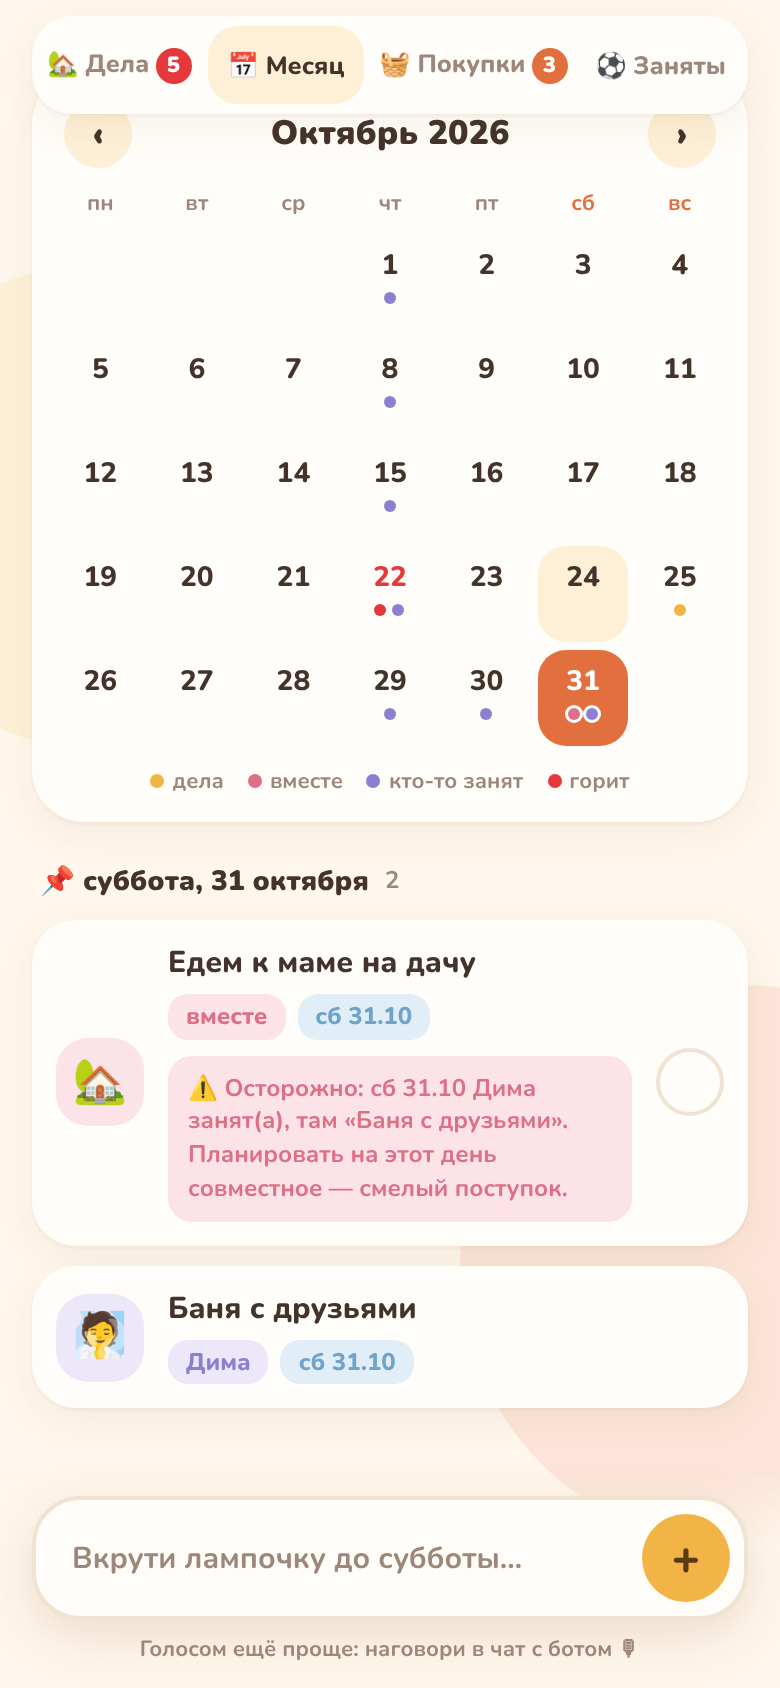
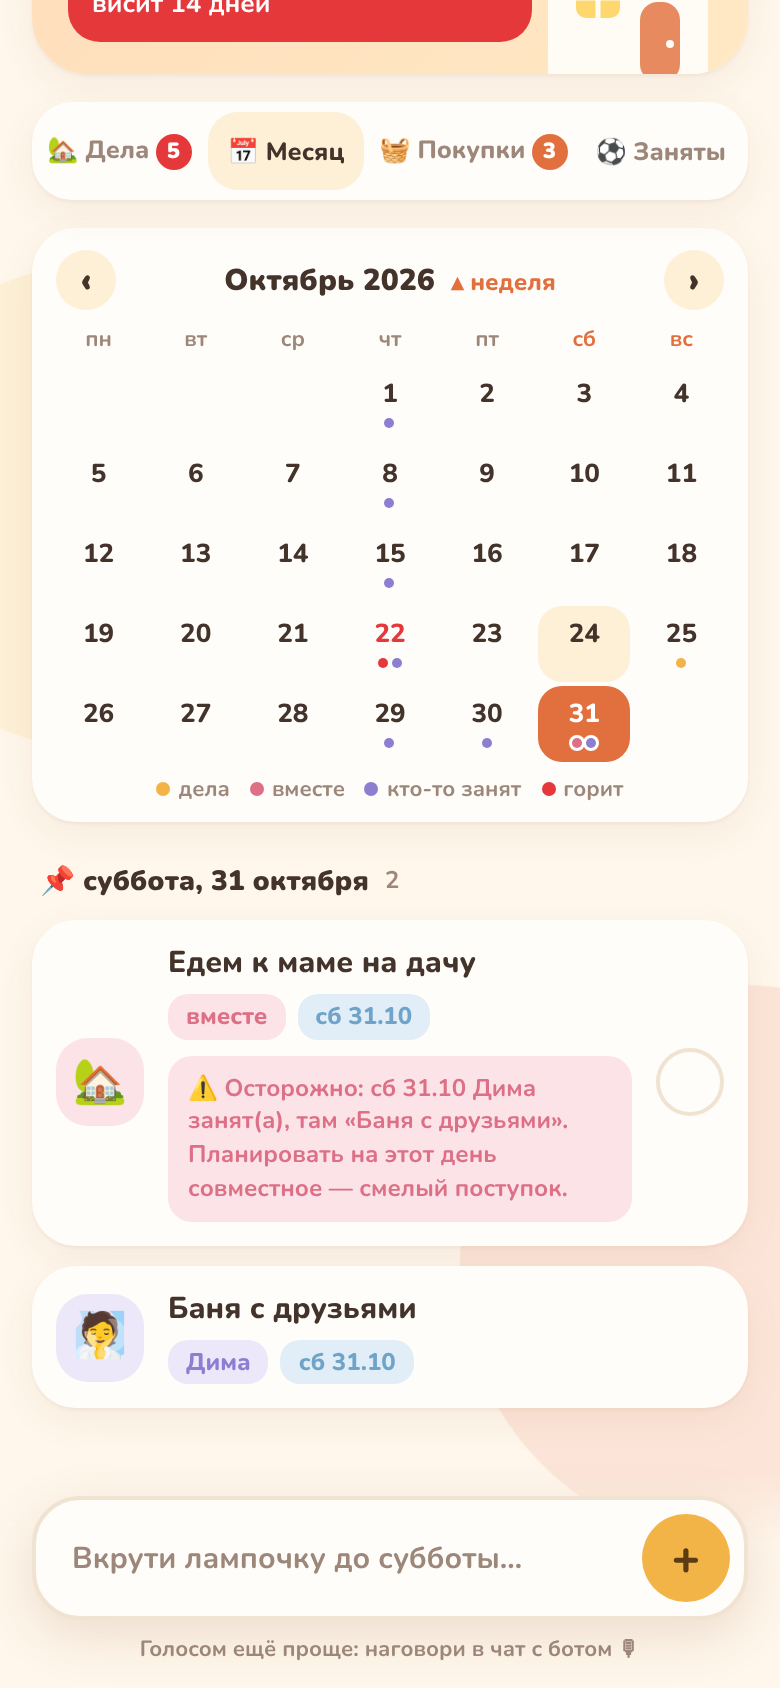
Календарь: по умолчанию текущая неделя, по нажатию весь месяц; компактнее
Claude-Session: https://claude.ai/code/session_01K4WBGGq4fEqRaNC21ns6ax

diff --git a/webapp/index.html b/webapp/index.html
@@ -100,23 +100,25 @@ h3.hot{color:var(--hot);font-size:15px;letter-spacing:.5px}
 .check:hover{border-color:var(--sage)}
 .item.done .check{background:var(--sage);border-color:var(--sage);color:#fff;transform:scale(1.1)}
 
-.cal{background:var(--paper);border-radius:26px;padding:14px 12px 12px;margin-top:16px;box-shadow:var(--shadow)}
-.cal-head{display:flex;align-items:center;justify-content:space-between;padding:0 4px 10px}
+.cal{background:var(--paper);border-radius:22px;padding:10px 10px 8px;margin-top:14px;box-shadow:var(--shadow)}
+.cal-head{display:flex;align-items:center;justify-content:space-between;padding:0 2px 6px}
+.cal-title{border:0;background:none;color:var(--ink);font:900 15px Nunito,sans-serif;text-transform:capitalize;cursor:pointer;padding:6px 10px;border-radius:12px}
+.cal-title span{font-size:12px;font-weight:800;color:var(--terra);text-transform:none;margin-left:4px}
 .cal-head b{font-size:17px;font-weight:900;text-transform:capitalize}
-.cal-head button{border:0;background:var(--honey-soft);color:var(--ink);width:34px;height:34px;border-radius:50%;font-size:18px;font-weight:900;cursor:pointer}
-.cal-grid{display:grid;grid-template-columns:repeat(7,1fr);gap:4px}
+.cal-head > button[data-cal]{border:0;background:var(--honey-soft);color:var(--ink);width:30px;height:30px;border-radius:50%;font-size:18px;font-weight:900;cursor:pointer}
+.cal-grid{display:grid;grid-template-columns:repeat(7,1fr);gap:2px}
 .cal-wd{text-align:center;font-size:11px;color:var(--muted);padding-bottom:4px}
 .cal-wd.we{color:var(--terra)}
-.cal-day{border:0;background:none;color:var(--ink);border-radius:14px;padding:6px 0 5px;min-height:48px;display:flex;flex-direction:column;align-items:center;gap:4px;cursor:pointer;font:800 14px Nunito,sans-serif}
+.cal-day{border:0;background:none;color:var(--ink);border-radius:12px;padding:5px 0 4px;min-height:38px;display:flex;flex-direction:column;align-items:center;gap:3px;cursor:pointer;font:800 13px Nunito,sans-serif}
 .cal-day.out{visibility:hidden}
 .cal-day.today{background:var(--honey-soft)}
 .cal-day.sel{background:var(--terra);color:#fff}
 .cal-day.hot:not(.sel){color:var(--hot)}
-.dots{display:flex;gap:3px;height:6px}
-.dots i{width:6px;height:6px;border-radius:50%;display:block}
+.dots{display:flex;gap:2px;height:5px}
+.dots i{width:5px;height:5px;border-radius:50%;display:block}
 .d-task{background:var(--honey)} .d-event{background:var(--rose)} .d-busy{background:var(--lav)} .d-hot{background:var(--hot)}
 .cal-day.sel .dots i{box-shadow:0 0 0 1.5px #fff}
-.legend{display:flex;gap:12px;flex-wrap:wrap;justify-content:center;font-size:11px;color:var(--muted);margin-top:10px}
+.legend{display:flex;gap:10px;flex-wrap:wrap;justify-content:center;font-size:11px;color:var(--muted);margin-top:6px}
 .legend span{display:flex;align-items:center;gap:4px}
 .legend i{width:7px;height:7px;border-radius:50%;display:block}
 .empty{text-align:center;color:var(--muted);padding:36px 24px;background:var(--paper);border-radius:26px;margin-top:16px;box-shadow:var(--shadow)}
@@ -178,7 +180,7 @@ h3.hot{color:var(--hot);font-size:15px;letter-spacing:.5px}
 const tg = window.Telegram && Telegram.WebApp;
 const initData = tg ? tg.initData : "";
 const DEMO = !initData;
-let S = null, tab = "tasks", calMonth = null, calDay = null;
+let S = null, tab = "tasks", calMonth = null, calDay = null, calOpen = false, calWeek = null;
 if (tg) { tg.ready(); tg.expand(); try { tg.setHeaderColor("bg_color"); } catch(e){} }
 
 const $ = id => document.getElementById(id);
@@ -317,27 +319,41 @@ function onDay(dayIso){
   return S.items.filter(i => i.kind !== "buy" && (i.day === dayIso || (i.kind === "busy" && i.weekday === wd)));
 }
 
+const monday = d => { const x = new Date(d.getFullYear(), d.getMonth(), d.getDate()); x.setDate(x.getDate() - (x.getDay() + 6) % 7); return x; };
+
+function dayCell(date, todayIso, out){
+  const key = iso(date), list = onDay(key);
+  const kinds = [...new Set(list.map(i => i.hot ? "hot" : i.kind))].slice(0, 4);
+  const cls = [key === todayIso ? "today" : "", key === calDay ? "sel" : "", kinds.includes("hot") ? "hot" : "", out ? "out" : ""].join(" ");
+  return `<button class="cal-day ${cls}" data-day="${key}">${date.getDate()}<span class="dots">${kinds.map(k => `<i class="d-${k}"></i>`).join("")}</span></button>`;
+}
+
+// Collapsed: the current week strip. Tap the title to unfold the whole month.
 function monthHtml(){
-  const now = new Date();
+  const now = new Date(), todayIso = iso(now);
+  if (!calDay) calDay = todayIso;
+  if (!calWeek) calWeek = monday(now);
   if (!calMonth) calMonth = new Date(now.getFullYear(), now.getMonth(), 1);
-  if (!calDay) calDay = iso(now);
-  const y = calMonth.getFullYear(), m = calMonth.getMonth();
-  const first = (new Date(y, m, 1).getDay() + 6) % 7, days = new Date(y, m + 1, 0).getDate();
-  const title = calMonth.toLocaleDateString("ru-RU", {month: "long", year: "numeric"}).replace(" г.", "");
-  let cells = WD.map((w, i) => `<div class="cal-wd${i > 4 ? " we" : ""}">${w}</div>`).join("");
-  for (let i = 0; i < first; i++) cells += `<div class="cal-day out"></div>`;
-  for (let d = 1; d <= days; d++) {
-    const key = iso(new Date(y, m, d)), list = onDay(key);
-    const kinds = [...new Set(list.map(i => i.hot ? "hot" : i.kind))].slice(0, 4);
-    const cls = [key === iso(now) ? "today" : "", key === calDay ? "sel" : "", kinds.includes("hot") ? "hot" : ""].join(" ");
-    cells += `<button class="cal-day ${cls}" data-day="${key}">${d}<span class="dots">${kinds.map(k => `<i class="d-${k}"></i>`).join("")}</span></button>`;
+  let cells = WD.map((w, i) => `<div class="cal-wd${i > 4 ? " we" : ""}">${w}</div>`).join(""), title;
+  if (calOpen) {
+    const y = calMonth.getFullYear(), m = calMonth.getMonth();
+    const first = (new Date(y, m, 1).getDay() + 6) % 7, days = new Date(y, m + 1, 0).getDate();
+    for (let i = 0; i < first; i++) cells += `<div class="cal-day out"></div>`;
+    for (let d = 1; d <= days; d++) cells += dayCell(new Date(y, m, d), todayIso);
+    title = calMonth;
+  } else {
+    for (let i = 0; i < 7; i++) { const d = new Date(calWeek); d.setDate(d.getDate() + i); cells += dayCell(d, todayIso); }
+    title = new Date(calWeek.getFullYear(), calWeek.getMonth(), calWeek.getDate() + 3);
   }
+  const name = title.toLocaleDateString("ru-RU", {month: "long", year: "numeric"}).replace(" г.", "");
   const sel = onDay(calDay), sd = new Date(calDay + "T12:00");
   const label = sd.toLocaleDateString("ru-RU", {weekday: "long", day: "numeric", month: "long"});
   const list = sel.length ? sel.map(itemHtml).join("") : `<div class="empty" style="margin-top:0">Свободный день. Подозрительно.</div>`;
-  return `<div class="cal"><div class="cal-head"><button data-cal="-1" aria-label="Назад">‹</button><b>${esc(title)}</b><button data-cal="1" aria-label="Вперёд">›</button></div>
+  return `<div class="cal${calOpen ? " open" : ""}"><div class="cal-head"><button data-cal="-1" aria-label="Назад">‹</button>
+      <button class="cal-title" data-caltoggle="1">${esc(name)} <span>${calOpen ? "▴ неделя" : "▾ месяц"}</span></button>
+      <button data-cal="1" aria-label="Вперёд">›</button></div>
     <div class="cal-grid">${cells}</div>
-    <div class="legend"><span><i class="d-task"></i>дела</span><span><i class="d-event"></i>вместе</span><span><i class="d-busy"></i>кто-то занят</span><span><i class="d-hot"></i>горит</span></div></div>
+    ${calOpen ? `<div class="legend"><span><i class="d-task"></i>дела</span><span><i class="d-event"></i>вместе</span><span><i class="d-busy"></i>кто-то занят</span><span><i class="d-hot"></i>горит</span></div>` : ""}</div>
     <h3 style="text-transform:none">📌 ${esc(label)} <small>${sel.length || ""}</small></h3>${list}`;
 }
 
@@ -345,7 +361,17 @@ $("tabs").onclick = e => { const b = e.target.closest("button"); if (b) { tab = 
 
 $("list").onclick = async e => {
   const nav = e.target.closest("[data-cal]"), day = e.target.closest("[data-day]");
-  if (nav) { calMonth = new Date(calMonth.getFullYear(), calMonth.getMonth() + +nav.dataset.cal, 1); render(); return; }
+  if (e.target.closest("[data-caltoggle]")) {
+    calOpen = !calOpen;
+    const d = new Date(calDay + "T12:00");
+    if (calOpen) calMonth = new Date(d.getFullYear(), d.getMonth(), 1); else calWeek = monday(d);
+    render(); return;
+  }
+  if (nav) {
+    if (calOpen) calMonth = new Date(calMonth.getFullYear(), calMonth.getMonth() + +nav.dataset.cal, 1);
+    else calWeek = new Date(calWeek.getFullYear(), calWeek.getMonth(), calWeek.getDate() + 7 * nav.dataset.cal);
+    render(); return;
+  }
   if (day) { calDay = day.dataset.day; render(); return; }
   const d = e.target.closest("[data-done]");
   if (d) {
